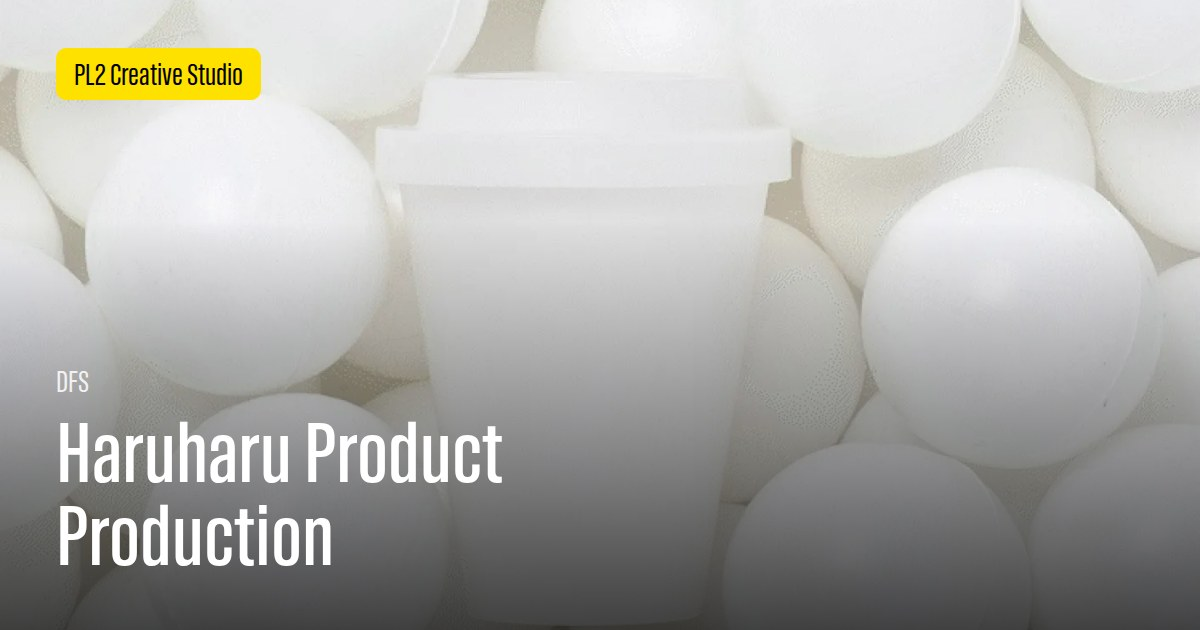
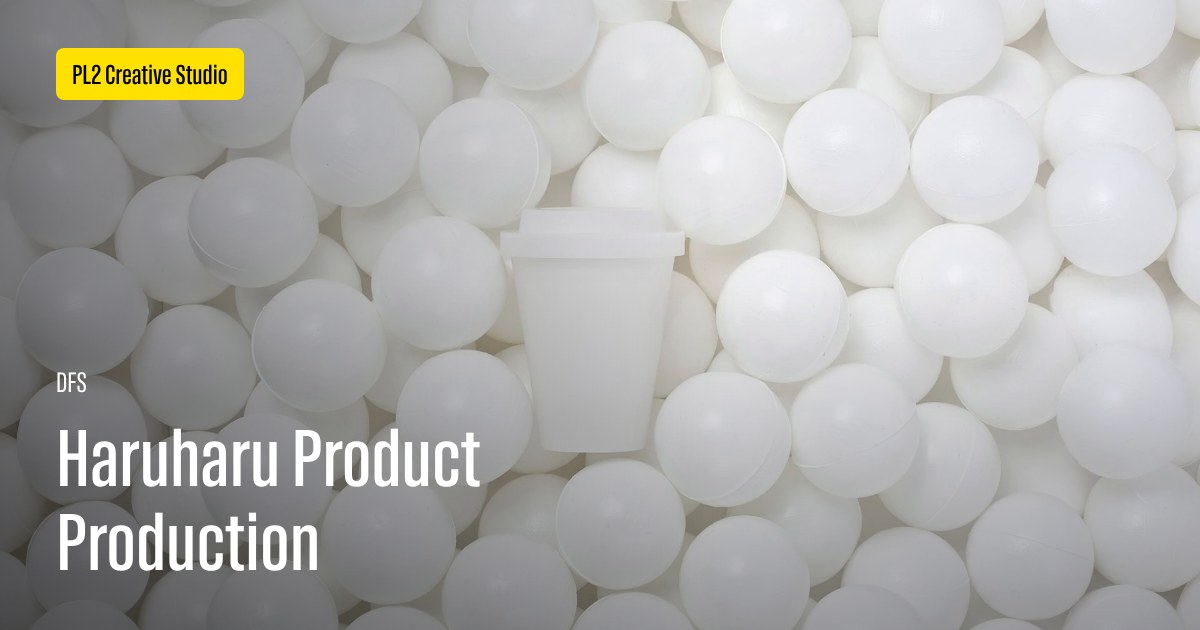
Detail heroes: white text everywhere with Light(30%)/Dark(50%) dims per video; SmartThings spelling; T/W GNB per latest menu design (no fill, glass 20, white 30% dividers); regenerate OG 01/03/08 (tools/og-image.mjs)
Claude-Session: https://claude.ai/code/session_017fPWdxNm1uU1W77Gv1upXe

diff --git a/assets/base.css b/assets/base.css
@@ -339,16 +339,20 @@ button {
   border-bottom-color: rgba(0, 0, 0, 0.12); /* PC 피드백_1026 GNB 시안: 검정 12% */
 }
 
-/* T/W (어두운 배경): 컴포넌트는 검정 10% + GLASS, 글자 흰색 */
+/* T/W (어두운 배경): 2026-10-30 메뉴바 시안(Frame 2116929568) — 채우기 없이 GLASS 20, 구분선 흰색 30%.
+   피그마 GLASS 반경은 CSS blur 의 2배라 20 → 10.
+   시안의 글자·아이콘·구분선에는 Difference 블렌드가 걸려 있지만, 피그마에서도 메뉴바 안에서만
+   섞여 실제 화면은 흰색이다. 브라우저에서 진짜 Difference 로 섞으면 컬러 배경 위에서 글자가
+   보색(예: 청록 위 분홍)으로 바뀌어 시안과 달라지므로 흰색 그대로 둔다. */
 :where(.gnb--tw) .gnb-panel {
-  background: rgba(0, 0, 0, 0.1);
-  backdrop-filter: blur(20px);
-  -webkit-backdrop-filter: blur(20px);
+  background: transparent;
+  backdrop-filter: blur(10px);
+  -webkit-backdrop-filter: blur(10px);
 }
 
 :where(.gnb--tw) .gnb-item {
   color: var(--pl2-white);
-  border-bottom-color: rgba(255, 255, 255, 0.2); /* PC 피드백_1026 GNB 시안: 어두운 배경용은 흰색 20% */
+  border-bottom-color: rgba(255, 255, 255, 0.3);
 }
 
 /* 노란 패널 위에서는 검정 60% 가 올리브색으로 떠서 탁하다.
@@ -363,12 +367,12 @@ button {
    위 타입 규칙은 :where() 로 감싸 특이도를 0 으로 만들었다 —
    그래야 아래의 hover/현재페이지 규칙이 타입 규칙을 이긴다. */
 
-/* ── Type=T/W : 어두운 배경 위 (fill 검정 10% + 흰 테두리 + glass) ── */
+/* ── Type=T/W : 어두운 배경 위 (채우기 없음 + 흰 테두리 + glass) ── */
 .gnb--tw .gnb-bar {
-  background: rgba(0, 0, 0, 0.1);
+  background: transparent;
   /* 윤곽선은 공통 ::after (PC 피드백_1015) */
-  backdrop-filter: blur(20px); /* GLASS 효과 근사 */
-  -webkit-backdrop-filter: blur(20px);
+  backdrop-filter: blur(10px); /* GLASS 20 근사 */
+  -webkit-backdrop-filter: blur(10px);
 }
 
 .gnb--tw .gnb-brand {

diff --git a/works-detail-08.html b/works-detail-08.html
@@ -3,7 +3,7 @@
   <head>
     <meta charset="UTF-8" />
     <meta name="viewport" content="width=device-width, initial-scale=1.0" />
-    <title>Smart things 2D Motion Project | PL2 Creative Studio</title>
+    <title>SmartThings 2D Motion Project | PL2 Creative Studio</title>
     <meta
       name="description"
       content="SmartThings 브랜드 영상용 2D 모션 그래픽 프로젝트"
@@ -11,7 +11,7 @@
     <meta property="og:type" content="article" />
     <meta
       property="og:title"
-      content="Smart things 2D Motion Project | PL2 Creative Studio"
+      content="SmartThings 2D Motion Project | PL2 Creative Studio"
     />
     <meta
       property="og:description"
@@ -71,12 +71,12 @@
             >
               <source src="assets/wd8-hero.mp4" type="video/mp4" />
             </video>
-            <div class="wd-hero-dim" aria-hidden="true"></div>
+            <div class="wd-hero-dim wd-hero-dim--dark" aria-hidden="true"></div>
 
             <div class="wd-hero-title">
               <div class="wd-hero-head">
                 <span class="wd-hero-brand">Samsung</span>
-                <h1 class="wd-hero-h1">Smart things<br />2D Motion Project</h1>
+                <h1 class="wd-hero-h1">SmartThings<br />2D Motion Project</h1>
               </div>
               <!-- 태그: 피그마 PC 피드백_1007 HeroSection -->
               <div class="wd-hero-tags">

diff --git a/assets/works-detail-06.css b/assets/works-detail-06.css
@@ -8,22 +8,6 @@
   line-height: min(1.6667vw, 32px) /* 32 */; /* 이 페이지 헤더 설명은 전부 32 */
 }
 
-/* 히어로 딤 (2026-09-05)
-   피그마 Dim 레이어의 선언값은 검정 20% → 투명인데, 피그마가 실제로 래스터화한
-   결과의 실효 알파는 왼쪽 끝에서 약 0.178 이다 (렌더 픽셀에서 역산).
-   공통 .wd-hero-dim(선언값 0.2)을 그대로 쓰면 화면 왼쪽 절반이 피그마 렌더보다
-   최대 5.5/255 어둡다 — 베이스 이미지(0.05 이내 일치)와 CSS 알파(이론값과 0.0006 이내)를
-   각각 검증했으므로 남은 원인은 그라디언트 래스터화 차이뿐이다.
-   이 페이지만 피그마 "렌더" 기준으로 맞춘다. 나머지 상세 9개는 공통 0.2 그대로다.
-   works-detail-06.css 는 works-detail.css 뒤에 로드되므로 같은 특이도로 덮인다. */
-.wd-hero-dim {
-  background: linear-gradient(
-    to right,
-    rgba(0, 0, 0, 0.18) 0%,
-    rgba(0, 0, 0, 0) 100%
-  );
-}
-
 /* 가운데 헤더도 제목↔설명 간격 24 (공통 기본값은 40) */
 .wd-head--center {
   gap: min(1.25vw, 24px);

diff --git a/assets/works-detail-01.css b/assets/works-detail-01.css
@@ -82,15 +82,6 @@
   height: min(2.5vw, 48px);
 }
 
-/* ══ 1. 히어로 영상 확대 ═══════════════════════════════
-   영상 파일 위아래에 검정 레터박스가 구워져 있어서 그대로 깔면 영상이 메뉴바 아래부터
-   시작하는 것처럼 보인다 (PC 피드백_0930). 피그마도 VIDEO fill 을 CROP 0.8378 배율로
-   가운데 확대해 띠를 잘라낸다 → 1 / 0.8378 = 1.1936 배. poster 도 같은 프레임이라 같이 확대.
-   .wd-hero 가 overflow: hidden 이라 넘치는 부분은 잘린다. */
-.wd-hero-media {
-  transform: scale(1.1936);
-}
-
 /* ══ 3. 필름스트립 (무한 회전 캐러셀) ═════════════════════
    피그마 Frame 2116929324: 2638x740 트랙에 작은 칸 200x300 (아래 정렬, 간격 12) 10개와
    가운데 큰 칸 518x740 하나. 큰 칸이 화면 정중앙에 오도록 트랙을 중앙 정렬한다.

diff --git a/assets/works-detail.css b/assets/works-detail.css
@@ -79,13 +79,24 @@
 }
 
 /* 피그마 Dim: 왼쪽 검정 20% → 오른쪽 투명 */
+/* 히어로 딤 (PC 피드백_1026 히어로 모음 → 2026-10-30 확정): 영상마다 Light / Dark 중 하나.
+   둘 다 왼쪽 끝 검정 → 화면 가운데(49.5%)에서 투명. 강도만 다르다 (Light 30%, Dark 50%).
+   글자는 모든 상세 히어로에서 흰색이다. */
 .wd-hero-dim {
   position: absolute;
   inset: 0;
   background: linear-gradient(
     to right,
-    rgba(0, 0, 0, 0.2) 0%,
-    rgba(0, 0, 0, 0) 100%
+    rgba(0, 0, 0, 0.3) 0%,
+    rgba(0, 0, 0, 0) 49.5%
+  );
+}
+
+.wd-hero-dim--dark {
+  background: linear-gradient(
+    to right,
+    rgba(0, 0, 0, 0.5) 0%,
+    rgba(0, 0, 0, 0) 49.5%
   );
 }
 

diff --git a/works-detail-02.html b/works-detail-02.html
@@ -59,7 +59,7 @@
           <div class="wd-hero">
             <!-- 이 상세의 히어로는 영상이 아니라 이미지다 (피그마 IMAGE fill 2겹) -->
             <img class="wd-hero-media" src="assets/wd2-hero.webp" alt="" />
-            <div class="wd-hero-dim" aria-hidden="true"></div>
+            <div class="wd-hero-dim wd-hero-dim--dark" aria-hidden="true"></div>
 
             <div class="wd-hero-title">
               <div class="wd-hero-head">

diff --git a/assets/works-detail-08.css b/assets/works-detail-08.css
@@ -1,5 +1,5 @@
 /* PL2 works detail 08 전용 (공통 구조는 works-detail.css)
-   피그마: Works_Detail (node 2345:67312, 콘텐츠 12134) — Smart things 2D Motion Project
+   피그마: Works_Detail (node 2345:67312, 콘텐츠 12134) — SmartThings 2D Motion Project
    **다크 테마** (Content fill #000000) + GNB Type=T/W. 섹션 리듬 320px, 내부 160 / 120 / 80. */
 
 .wd-head-desc {

diff --git a/works-detail-04.html b/works-detail-04.html
@@ -56,7 +56,7 @@
       <div class="wd-container">
         <!-- ══ 1. 히어로 + 프로젝트 개요 ══ -->
         <section class="wd-top">
-          <div class="wd-hero">
+          <div class="wd-hero wd-hero--dark">
             <img class="wd-hero-media" src="assets/wd4-hero.webp" alt="" />
             <div class="wd-hero-dim" aria-hidden="true"></div>
 

diff --git a/works-detail-01.html b/works-detail-01.html
@@ -70,7 +70,7 @@
             >
               <source src="assets/wd1-hero.mp4" type="video/mp4" />
             </video>
-            <div class="wd-hero-dim" aria-hidden="true"></div>
+            <div class="wd-hero-dim wd-hero-dim--dark" aria-hidden="true"></div>
 
             <div class="wd-hero-title">
               <div class="wd-hero-head">

diff --git a/works-detail-09.html b/works-detail-09.html
@@ -72,7 +72,7 @@
             >
               <source src="assets/wd9-hero.mp4" type="video/mp4" />
             </video>
-            <div class="wd-hero-dim" aria-hidden="true"></div>
+            <div class="wd-hero-dim wd-hero-dim--dark" aria-hidden="true"></div>
 
             <div class="wd-hero-title">
               <div class="wd-hero-head">

diff --git a/works.html b/works.html
@@ -127,7 +127,7 @@
             </video>
             <div class="wk-card-overlay">
               <p class="wk-card-brand">Samsung</p>
-              <p class="wk-card-project">Smart things 2D Motion Project</p>
+              <p class="wk-card-project">SmartThings 2D Motion Project</p>
             </div>
           </a>
         </div>
